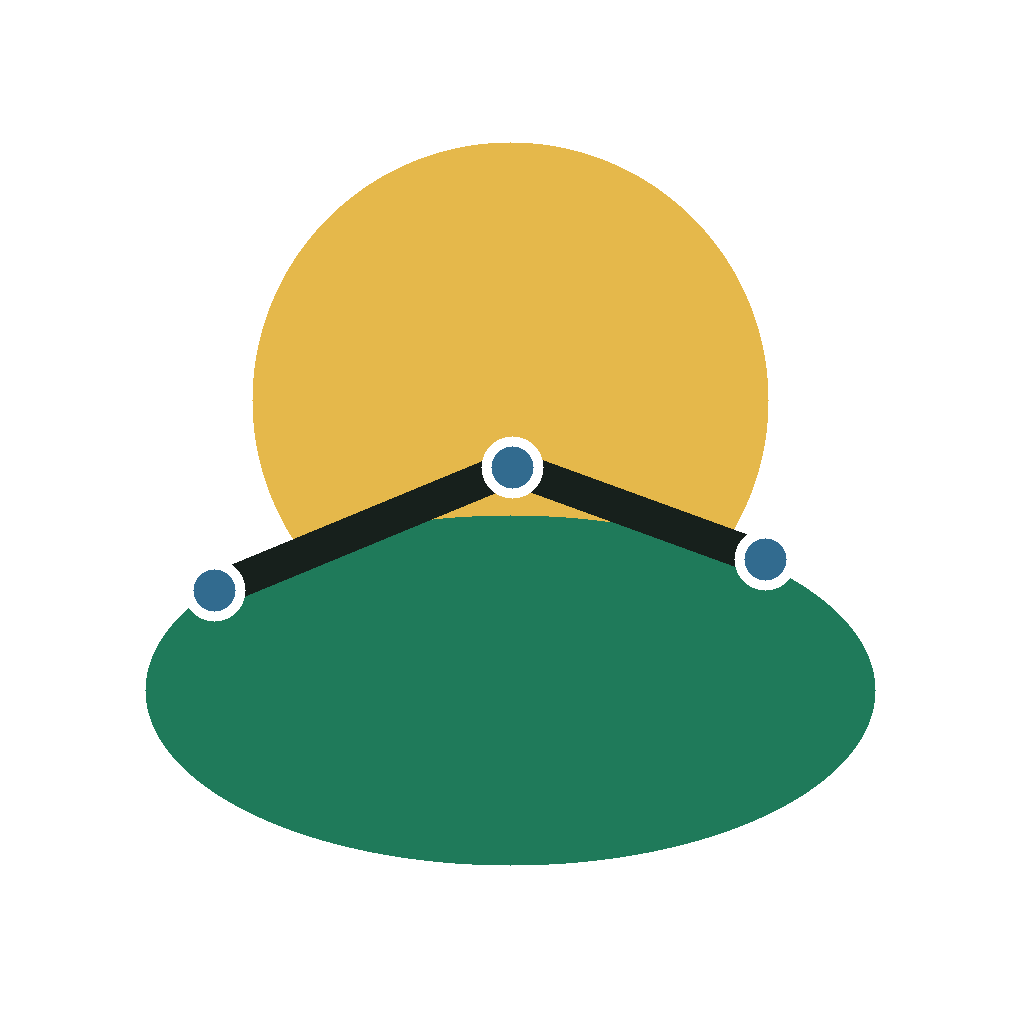
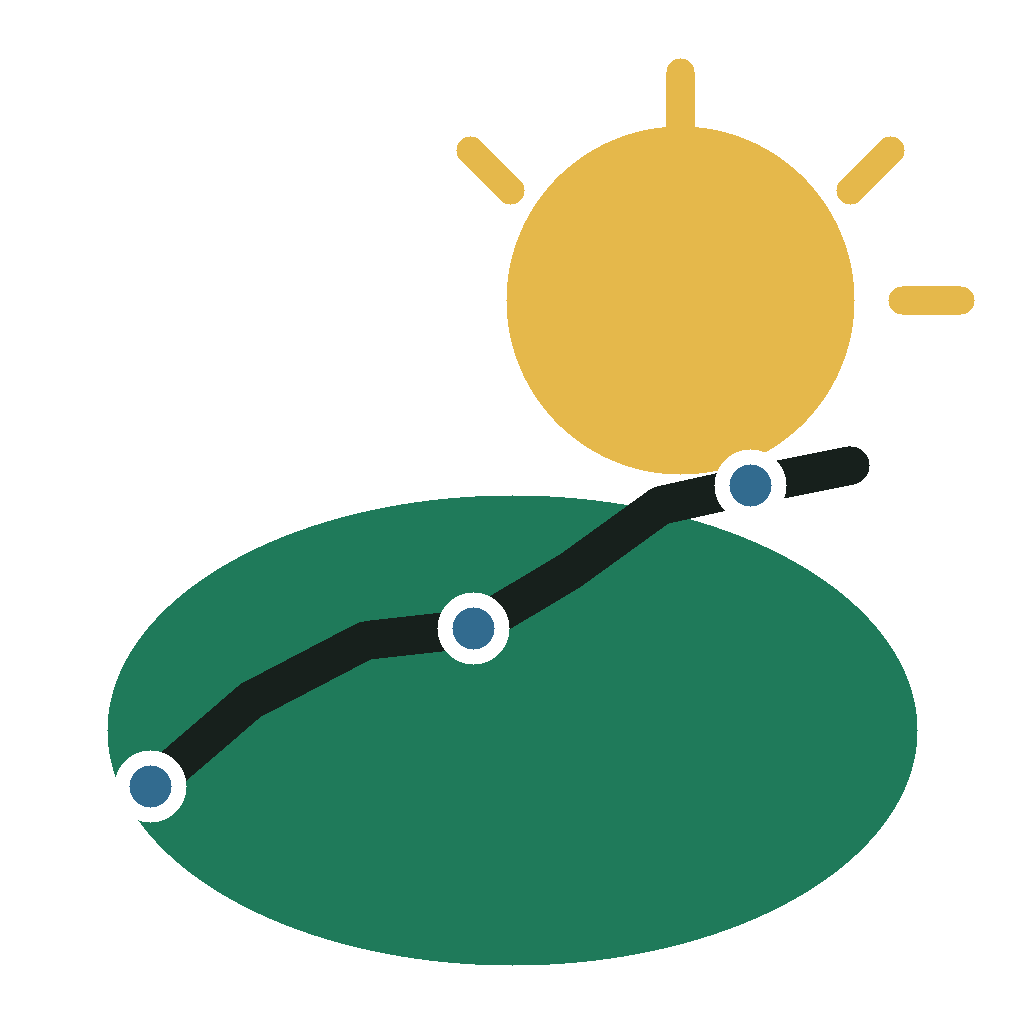
fx

Changed region(s): [[0.0938, 0.0625, 0.9688, 0.9688]]

diff --git a/apps/mobile/src/screens.tsx b/apps/mobile/src/screens.tsx
@@ -53,6 +53,7 @@ import {
   View
 } from "react-native";
 import MapView, { Marker, Polyline, type Region } from "react-native-maps";
+import Svg, { Circle, Path, Rect } from "react-native-svg";
 import type {
   AccommodationTag,
   BorderRule,
@@ -191,7 +192,7 @@ export function PlanScreen() {
             <Text style={styles.eyebrow}>WEATHERTRIP</Text>
             <Text style={styles.title}>Find your next good-weather route.</Text>
           </View>
-          <View style={styles.brandMark}><Sun size={22} color={colors.ink} strokeWidth={2.6} /><Route size={20} color={colors.green} strokeWidth={2.6} /></View>
+          <BrandMark />
         </View>
 
         <View style={styles.section}>
@@ -419,7 +420,8 @@ function LegBlock({ leg }: { leg: TripPlan["legs"][number] }) { return <View sty
 function AdvancedEditor({ brief, setBrief }: { brief: TripBrief; setBrief: React.Dispatch<React.SetStateAction<TripBrief>> }) { return <View style={styles.advancedContent}><Text style={styles.controlLabel}>Travelers</Text><SettingStepper label="Adults" value={brief.travelers.adults} min={1} max={8} onChange={(value) => setBrief((current) => ({ ...current, travelers: { ...current.travelers, adults: value } }))} /><SettingStepper label="Children" value={brief.travelers.children} min={0} max={8} onChange={(value) => setBrief((current) => ({ ...current, travelers: { ...current.travelers, children: value } }))} /><View style={styles.settingRow}><Text style={styles.settingLabel}>Electric car</Text><Switch value={brief.travelers.hasEv} onValueChange={(value) => setBrief((current) => ({ ...current, travelers: { ...current.travelers, hasEv: value } }))} trackColor={{ false: colors.line, true: colors.greenSoft }} thumbColor={brief.travelers.hasEv ? colors.green : colors.muted} /></View><Text style={styles.controlLabel}>Stay style</Text><View style={styles.chipWrap}>{accommodationOptions.map((option) => { const active = brief.accommodations.includes(option.id); const Icon = option.icon; return <Pressable key={option.id} style={[styles.smallChoice, active && styles.smallChoiceActive]} onPress={() => setBrief((current) => ({ ...current, accommodations: active ? current.accommodations.filter((item) => item !== option.id) : [...current.accommodations, option.id] }))}><Icon size={16} color={active ? colors.surface : colors.muted} /><Text style={[styles.smallChoiceText, active && styles.smallChoiceTextActive]}>{option.label}</Text>{active ? <Check size={14} color={colors.surface} /> : null}</Pressable>; })}</View><Text style={styles.controlLabel}>Temperature comfort</Text><ChoiceRow values={["cool", "mild", "warm"]} selected={brief.temperatureComfort ?? "mild"} labels={{ cool: "Cool", mild: "Mild", warm: "Warm" }} onSelect={(value) => setBrief((current) => ({ ...current, temperatureComfort: value as TemperatureComfort }))} /></View>; }
 
 function SectionHeading({ icon: Icon, label }: { icon: LucideIcon; label: string }) { return <View style={styles.sectionHeading}><Icon size={19} color={colors.green} /><Text style={styles.sectionTitle}>{label}</Text></View>; }
-function ScreenHeader({ title, subtitle }: { title: string; subtitle: string }) { return <View style={styles.screenHeader}><Text style={styles.eyebrow}>WEATHERTRIP</Text><Text style={styles.screenTitle}>{title}</Text><Text style={styles.screenSubtitle}>{subtitle}</Text></View>; }
+function ScreenHeader({ title, subtitle }: { title: string; subtitle: string }) { return <View style={styles.screenHeader}><View style={styles.screenBrand}><BrandMark size={34} /><Text style={styles.eyebrow}>WEATHERTRIP</Text></View><Text style={styles.screenTitle}>{title}</Text><Text style={styles.screenSubtitle}>{subtitle}</Text></View>; }
+function BrandMark({ size = 58 }: { size?: number }) { return <View accessibilityLabel="Weathertrip logo" style={[styles.brandMark, { height: size, width: size, borderRadius: size * 0.21 }]}><Svg height={size} width={size} viewBox="0 0 1024 1024"><Rect width="1024" height="1024" rx="220" fill={colors.paper} /><Circle cx="680" cy="300" r="174" fill={colors.yellow} /><Path d="M110 742c118-124 246-181 383-161 129 19 171 101 280 53 54-24 99-60 141-107v387H110z" fill={colors.green} /><Path d="M150 786c115-108 216-159 323-158 119 1 169-104 277-143 52-19 105-21 152-8" fill="none" stroke={colors.ink} strokeLinecap="round" strokeLinejoin="round" strokeWidth="38" /><Circle cx="150" cy="786" r="29" fill={colors.blue} stroke={colors.paper} strokeWidth="14" /><Circle cx="473" cy="628" r="29" fill={colors.blue} stroke={colors.paper} strokeWidth="14" /><Circle cx="750" cy="485" r="29" fill={colors.blue} stroke={colors.paper} strokeWidth="14" /></Svg></View>; }
 function DateButton({ label, value, onPress }: { label: string; value: string; onPress: () => void }) { return <Pressable style={styles.dateButton} onPress={onPress}><Text style={styles.dateLabel}>{label}</Text><Text style={styles.dateValue}>{value}</Text></Pressable>; }
 function ChoiceTile({ selected, icon: Icon, label, detail, onPress }: { selected: boolean; icon: LucideIcon; label: string; detail: string; onPress: () => void }) { return <Pressable accessibilityRole="radio" accessibilityState={{ checked: selected }} style={[styles.goalTile, selected && styles.goalTileActive]} onPress={onPress}><View style={[styles.goalIcon, selected && styles.goalIconActive]}><Icon size={20} color={selected ? colors.surface : colors.green} /></View><Text style={[styles.goalLabel, selected && styles.goalLabelActive]}>{label}</Text><Text style={[styles.goalDetail, selected && styles.goalDetailActive]}>{detail}</Text>{selected ? <View style={styles.check}><Check size={13} color={colors.surface} /></View> : null}</Pressable>; }
 function ChoiceRow<T extends string | number>({ values, selected, suffix = "", labels, onSelect }: { values: T[]; selected: T; suffix?: string; labels?: Record<string, string>; onSelect: (value: T) => void }) { return <View style={styles.choiceRow}>{values.map((value) => { const active = value === selected; const label = labels?.[String(value)] ?? `${value}${suffix}`; return <Pressable key={String(value)} accessibilityRole="radio" accessibilityState={{ checked: active }} style={[styles.choice, active && styles.choiceActive]} onPress={() => onSelect(value)}><Text style={[styles.choiceText, active && styles.choiceTextActive]}>{label}</Text>{active ? <Check size={14} color={colors.surface} /> : null}</Pressable>; })}</View>; }
@@ -539,6 +541,7 @@ const styles = StyleSheet.create({
   breakTitle: { color: colors.ink, fontSize: 12, fontWeight: "900" },
   breakText: { color: colors.muted, fontSize: 11, fontWeight: "600", marginTop: 2 },
   screenHeader: { paddingBottom: 4, paddingTop: 8 },
+  screenBrand: { alignItems: "center", flexDirection: "row", gap: 8 },
   screenTitle: { color: colors.ink, fontSize: 28, fontWeight: "900", marginTop: 4 },
   screenSubtitle: { color: colors.muted, fontSize: 15, fontWeight: "600", marginTop: 4 },
   tripRow: { alignItems: "center", backgroundColor: colors.surface, borderBottomColor: colors.line, borderBottomWidth: 1, flexDirection: "row", gap: 12, minHeight: 75, paddingHorizontal: 4 },
